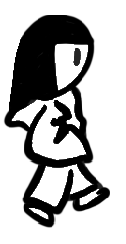
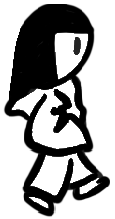
2025/12/22/3:42 @Thunderman48
upgraded player image and table coords

~main.py
~test_image.png

Changed region(s): [[0.0261, 0.0, 0.9652, 1.0]]

diff --git a/main.py b/main.py
@@ -97,12 +97,14 @@ stage_obstacles = {
 }
 
 table_coords = [
-    (301, 156), (261, 679), (343, 1002), (593, 451), (618, 1071),
-    (812, 841), (923, 241), (1175, 993), (1258, 449), (1537, 223)
+    (301, 156), (261, 679), (343, 700), (593, 451), (618, 750),
+    (812, 700), (923, 241), (1175, 730), (1258, 449), (1400, 223),
+    (100, 100), (100, 300), (100, 500), (1000, 100), (1000, 500)
 ]
 chair_coords = [
-    (187, 1038), (711, 226), (1006, 1102), (1394, 828), (1349, 199),
-    (1762, 643)
+    (187, 750), (711, 226), (1006, 700), (1394, 730), (1349, 199),
+    (1430, 643), (200, 100), (200, 300), (200, 500), (1100, 100),
+    (1100, 500)
 ]
 
 for pos in table_coords:
@@ -171,8 +173,8 @@ while running:
     # Get mouse position to use as the character's position
     player_pos = pygame.mouse.get_pos()
 
-    # Create a rect for the player for collision detection
-    player_rect = pygame.Rect(player_pos[0] - 25, player_pos[1] - 25, 50, 50)
+    # Create a rect for the player for collision detection, centered on the mouse
+    player_rect = player_image.get_rect(center=player_pos)
 
     if game_state == 'game':
         # Check for collision with obstacles
@@ -186,7 +188,7 @@ while running:
         # Get the goal for the current stage
         current_goal_rect = stage_goals.get(current_stage)
         # Check if the player touches the goal area
-        if current_goal_rect and current_goal_rect.collidepoint(player_pos):
+        if current_goal_rect and player_rect.colliderect(current_goal_rect):
             if current_stage < len(stage_backgrounds):
                 current_stage += 1
             else:
